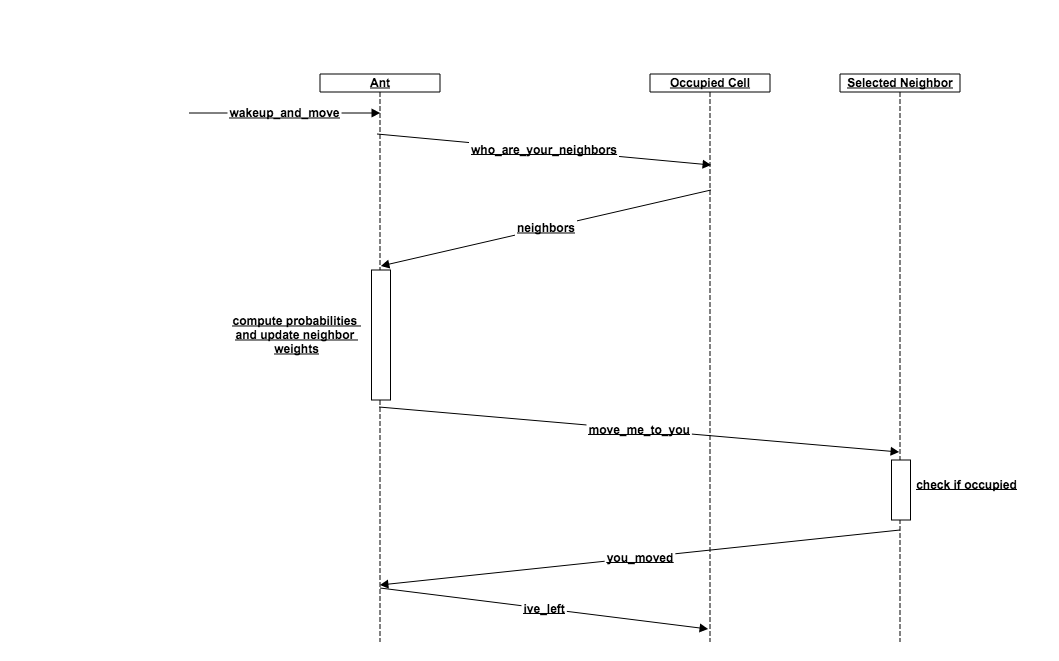
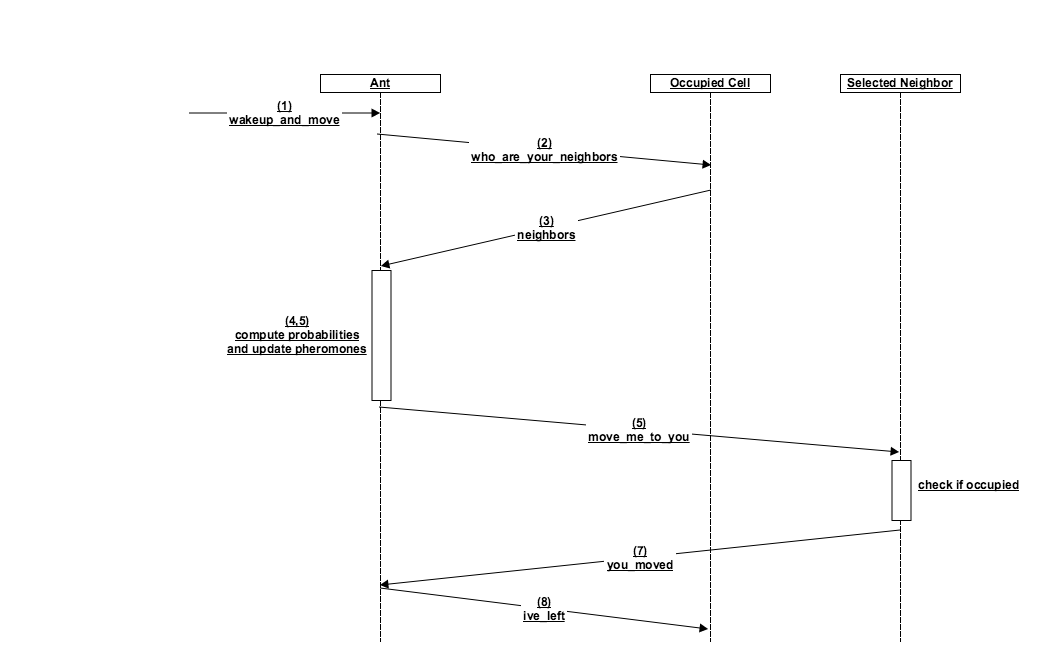
tmp

diff --git a/2015/06/09/ants/index.html b/2015/06/09/ants/index.html
@@ -145,21 +145,20 @@ use pheromones to find their way back home (instead of magically remembering the
 absolute coordinates of their home), but I used this to simplify the model while
 still sort of capturing the return to home behavior.</p>
 
-<p>Food can be placed at any cell in the simulation. Because of time constraints,
-nothing actually tracks how much food gets carried home, and the supply of food
-at a given cell does not change when an ant discovers food. If I were to
-continue the project, it would be really interesting to see how much food
-actually gets “home” and to include a changing food supply in the model.</p>
+<p>Food can be placed at any cell in the simulation. Nothing actually tracks how
+much food gets carried home, and the supply of food at a given cell does not
+change when an ant discovers food. If I were to continue the project, it would
+be really interesting to see how much food actually gets “home” and to include a
+changing food supply in the model.</p>
 
 <h2 id="pheromone-propagation">Pheromone Propagation</h2>
-<p>When an ant is at a given cell, it gets the max pheromone weight of its
-neighbors. It then checks if the weight of the its current cell is greater than
-the max weight of its neighbors. If the current cell is weighted more heavily
-(stronger scent), it does nothing. If its current cell has a lower pheromone
-value than the max of its neighbors, it updates the weight of the current cell
-to half of the weight of its neighbors.</p>
+<p>When an ant is at a given cell, it gets the max pheromone strength of its
+neighbors. It then checks if the strength of the its current cell is greater
+than the max strength of its neighbors. If its current cell has a lower
+pheromone value than the max of its neighbors, the ant updates the strength of
+the current cell to half of the max strength of its neighbors.</p>
 
-<p>When ants find food, they set the pheromone weight at the cell which the food
+<p>When ants find food, they set the pheromone strength at the cell which the food
 was on to a high value, then they start moving back home. This should, in
 theory, cause the pheromone trail to follow them.  This doesn’t work as well as
 hoped because the pheromone trail drops off too quickly, but is is simple and
@@ -174,41 +173,31 @@ simulation I showed a video of earlier:</p>
 <p>If you aren’t familiar with Erlang, here is a super quick overview of the
 concurrency construct in the language.</p>
 
-<p>Actors (processes in Erlang terminology) run concurrently (and in parallel if
-you have multiple CPUS and a modern Erlang VM) and send messages to each other.
-These messages are asynchronous, so if actor A sends a message to actor B, it
-doesn’t wait for B to respond to proceed with what it is doing (unless you make
-it). There is no way for actors to communicate other than sending messages to
-each other.</p>
+<p>Actors (processes in Erlang terminology) run concurrently and send messages to
+each other. These messages are asynchronous, so if actor A sends a message to
+actor B, it doesn’t wait for B to respond to proceed with it’s next instruction.
+A message can also contain any sort of data you care to send.</p>
 
-<p>To handle the messages, every actor has a “mailbox” of incoming messages. When
-it is ready to receive a message, an actor initiates a message receive, which
-pulls messages out of the mailbox and deals with them.</p>
+<p>An ant actor and a grid cell actor form the core of my simulation.</p>
 
-<p>The system is obviously a bit more complicated than that, but for now this is
-about all we need to understand.</p>
+<p>Cells know who their neighbors are, their pheromone strength, if they have food
+on them, and the current ant (can be undefined) occupying the cell. Only one ant
+can occupy a given cell at any moment in time.</p>
 
-<p>My Erlang code creates two main types of actors: an ant and a cell.</p>
-
-<p>Cells know who their neighbors are, their weight, if they have food on them, and
-the current ant (can be undefined) occupying the cell. Only one ant can occupy a
-given cell at any moment in time.</p>
-
-<p>A cell knows how to handle the following messages:</p>
+<p>A cell knows how to handle the following messages (and a few others):</p>
 
 <ul>
-  <li>who_are_your_neighbors - asks the cell to send a message back with its
+  <li>who_are_your_neighbors - asks the cell to send a message to someone with its
 neighbors</li>
   <li>move_me_to_you - tells the cell to set its current occupant to the ant sending
 the message</li>
   <li>ive_left - tells the cell that the ant sending the message has left the cell</li>
-  <li>some other logistical things that are not important here</li>
 </ul>
 
 <p>Ants know what cell they are on, what direction they are going, where they
 started, and a few other less important things.</p>
 
-<p>Ants know how to these messages:</p>
+<p>Ants know how to these messages (and a few others):</p>
 
 <ul>
   <li>wakeup_and_move - tells the ant to try to move somewhere</li>
@@ -216,7 +205,6 @@ started, and a few other less important things.</p>
 neighbors are</li>
   <li>move_to - tells an ant to change its current cell to some other cell</li>
   <li>move_failed - tells an ant that its move failed</li>
-  <li>some more logistical things that aren’t important here</li>
 </ul>
 
 <h3 id="simulation">Simulation</h3>
@@ -224,15 +212,15 @@ neighbors are</li>
 size of the grid and the location of food, builds the grid of cells, puts ants
 on the upper edge of the board, then starts a wakeup_and_move_loop for each ant.</p>
 
-<p>Simply put, these loops tell their ant to wake up and perform their move over
-and over again until the simulation is shut down.</p>
+<p>These loops tell their ant to wake up and perform their move over and over again
+until the simulation is shut down.</p>
 
 <h3 id="wakeupandmove">Wakeup_and_move</h3>
 <p>When an ant receives a wakeup_and_move message, it has to figure where it wants
 to move, if it can move there, and it needs to perform the pheromone propagation
 step. I don’t want to let two ants occupy the same cell at once, but it isn’t so
-bad if one ant is sort of in two places at once (I think). That rule results in
-the following set of messages for an ant move.</p>
+bad if one ant is sort of in two places at once (I think). Those rules motivate
+the following sequence of messages for an ant move:</p>
 
 <ol>
   <li>The ant receives a wakeup_and_move message</li>
